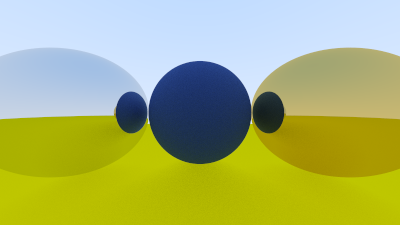
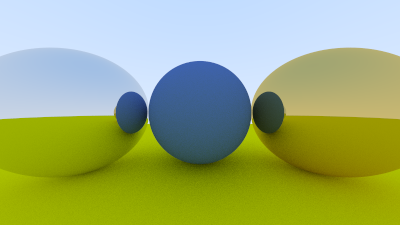
Fixed bug in lambertian scatter

diff --git a/src/object.c b/src/object.c
@@ -43,13 +43,13 @@ void create_lambertian(material *mat, color *albedo) {
 }
 
 bool lambertian_scatter(ray *r, hit_record *rec, color *attenuation, ray *scattered) {
-    // Uselss check to allow to compile (r not used since random scatter direction)
+    // Uselss check to compile (r not used since random scatter direction)
     if (r == NULL) exit(EXIT_FAILURE);
 
     // Find scatter direction
     vec3 scatter_direction, unit;
     random_unit_vector(&unit);
-    add(&rec->p, &unit, &scatter_direction);
+    add(&rec->normal, &unit, &scatter_direction);
 
     // Catch degenerate scatter direction
     if (near_zero(&scatter_direction)) {
